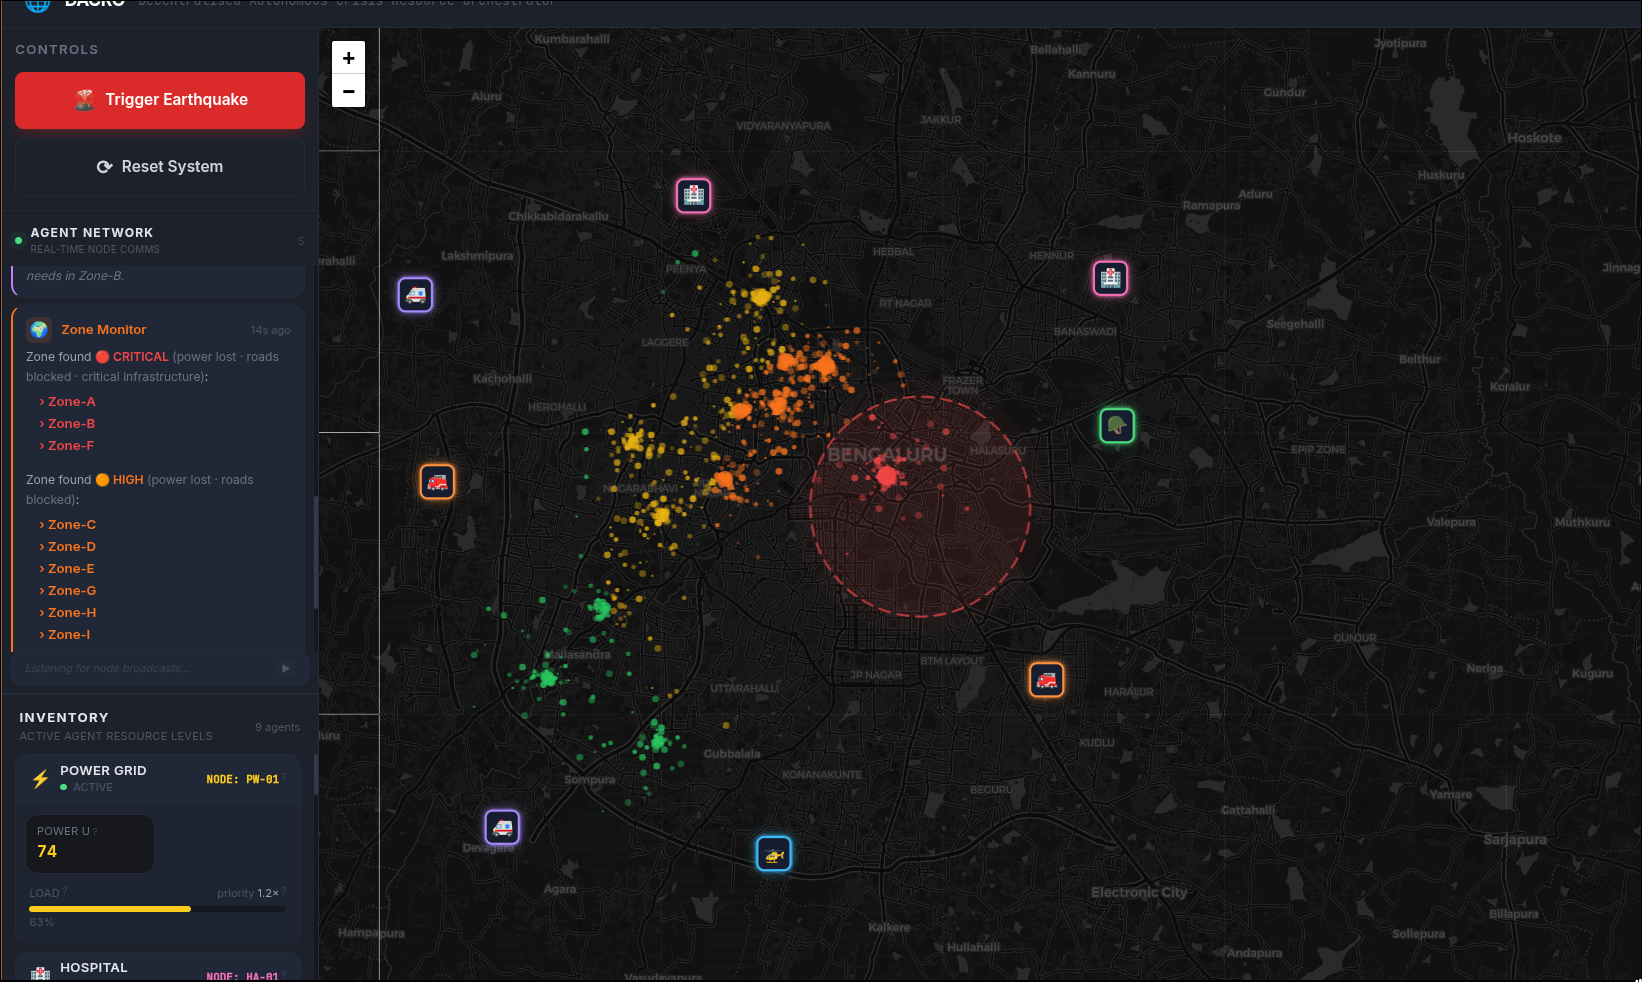
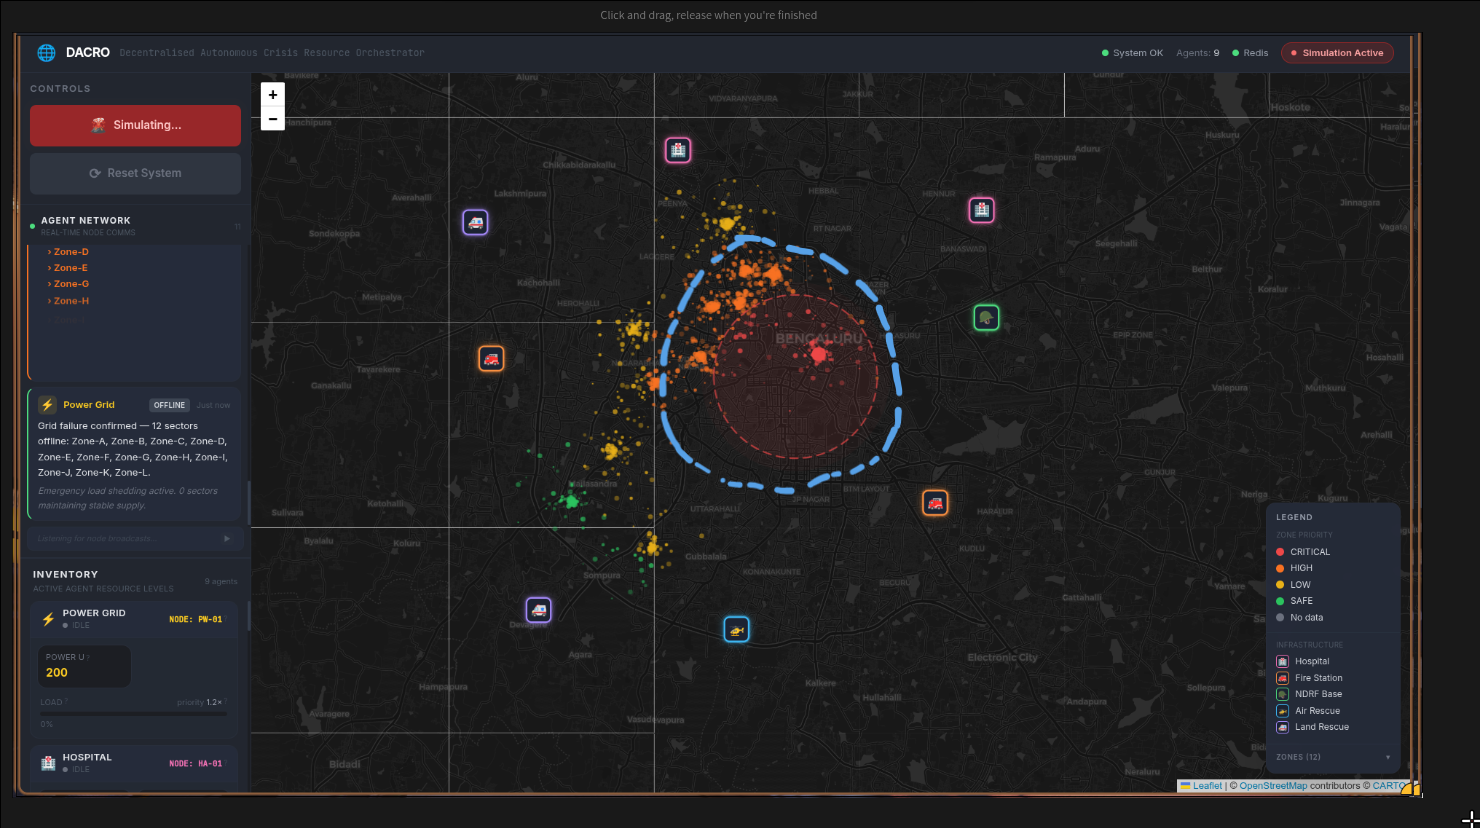
Added more details to map

diff --git a/resonet_frontend/src/components/Map/PowerOverlay.jsx b/resonet_frontend/src/components/Map/PowerOverlay.jsx
@@ -1,0 +1,117 @@
+/**
+ * PowerOverlay.jsx
+ * Renders small glowing blue "city light" dots around every zone that has power.
+ *
+ * Power-loss logic (frontend-driven, ignores backend's broad power_status signal):
+ *   • No epicenter active → all zones show dots (city fully lit)
+ *   • Epicenter active    → zones within 7 000 m lose dots (CRITICAL + HIGH impact ring)
+ *                           zones beyond 7 000 m keep dots (LOW + SAFE — grid stable)
+ *
+ * 7 000 m matches the HIGH/LOW boundary used by ZoneCircle and BuildingCluster,
+ * so color bands and power-off areas are always perfectly in sync.
+ *
+ * Dot positions are seeded by zone ID — stable across re-renders.
+ * Non-interactive (no mouse events).
+ */
+
+import { useMemo } from 'react';
+import { CircleMarker } from 'react-leaflet';
+
+/* ── PRNG ─────────────────────────────────────────────────────── */
+function strToSeed(str) {
+  let h = 2166136261 >>> 0;
+  for (let i = 0; i < str.length; i++) {
+    h ^= str.charCodeAt(i);
+    h = Math.imul(h, 16777619) >>> 0;
+  }
+  return h;
+}
+function makePRNG(seed) {
+  let s = seed >>> 0;
+  return () => {
+    s = (Math.imul(s, 1664525) + 1013904223) >>> 0;
+    return s / 4294967296;
+  };
+}
+
+/* ── Distance helper (same formula as ZoneCircle / BuildingCluster) ── */
+function metersApart(lat1, lon1, lat2, lon2) {
+  const R     = 6371000;
+  const dLat  = (lat2 - lat1) * (Math.PI / 180);
+  const mLat  = ((lat1 + lat2) / 2) * (Math.PI / 180);
+  const dLon  = (lon2 - lon1) * (Math.PI / 180);
+  return Math.sqrt(
+    (dLat * R) ** 2 + (dLon * R * Math.cos(mLat)) ** 2,
+  );
+}
+
+// Zones within this distance from the epicenter lose power
+// (matches the HIGH zone outer boundary → CRITICAL + HIGH ring goes dark)
+const POWER_LOSS_RADIUS_M = 7000;
+
+/* ── Dot layout ───────────────────────────────────────────────── */
+function buildPowerDots(lat, lon, density, zoneId) {
+  const rand  = makePRNG(strToSeed(zoneId + '\x00pw'));
+  const count = Math.round(density * 8 + 4);  // 5–10 dots
+  const dots  = [];
+
+  for (let i = 0; i < count; i++) {
+    const angle = rand() * Math.PI * 2;
+    const dist  = 0.0006 + rand() * 0.0045;
+    dots.push({
+      lat: lat + Math.sin(angle) * dist,
+      lon: lon + Math.cos(angle) * dist * 1.12,
+      r:   1.8 + rand() * 1.4,
+      op:  0.60 + rand() * 0.30,
+    });
+  }
+  return dots;
+}
+
+/* ── Single-zone dots ─────────────────────────────────────────── */
+function PowerZoneDots({ zone }) {
+  const { id, lat, lon, population_density = 0.5 } = zone;
+  const dots = useMemo(
+    () => buildPowerDots(lat, lon, population_density, id),
+    [id, lat, lon, population_density],
+  );
+
+  return (
+    <>
+      {dots.map((d, i) => (
+        <CircleMarker
+          key={`${id}-pw-${i}`}
+          center={[d.lat, d.lon]}
+          radius={d.r}
+          pathOptions={{
+            stroke:      false,
+            fillColor:   '#60a5fa',
+            fillOpacity: d.op,
+            interactive: false,
+          }}
+        />
+      ))}
+    </>
+  );
+}
+
+/* ── Overlay ──────────────────────────────────────────────────── */
+export default function PowerOverlay({ zones, epicenter }) {
+  const poweredZones = useMemo(() => {
+    if (!epicenter) return zones;   // no earthquake → all zones powered
+
+    return zones.filter((z) => {
+      const d = metersApart(z.lat, z.lon, epicenter.lat, epicenter.lon);
+      // Keep dots only for zones outside the power-loss radius
+      return d >= POWER_LOSS_RADIUS_M;
+    });
+  }, [zones, epicenter]);
+
+  return (
+    <>
+      {poweredZones.map((zone) => (
+        <PowerZoneDots key={zone.id} zone={zone} />
+      ))}
+    </>
+  );
+}

diff --git a/resonet_frontend/src/App.jsx b/resonet_frontend/src/App.jsx
@@ -58,6 +58,10 @@ export default function App() {
   const zoneBatchRef      = useRef([]);
   const zoneBatchTimerRef = useRef(null);
 
+  // Power batch buffer — collects power status changes, flushes a power_agent chat msg
+  const powerBatchRef      = useRef({ off: [], on: [] });
+  const powerBatchTimerRef = useRef(null);
+
   const { triggerEarthquake, resetSystem, isSimulating, lastEvent } = useSimulation();
 
   // Derive epicenter from the POST /simulate response — cleared to null on reset
@@ -92,6 +96,22 @@ export default function App() {
     pushMsg(makeMsg('zone_group', 'zone_monitor', '', null, { groups }));
   }, [pushMsg]);
 
+  /* ── Power batch flush — fires after all zone_update events settle ── */
+  const flushPowerBatch = useCallback(() => {
+    const { off, on } = powerBatchRef.current;
+    powerBatchRef.current = { off: [], on: [] };
+    if (off.length === 0) return;
+
+    const offList  = off.join(', ');
+    const onCount  = on.length;
+    pushMsg(makeMsg(
+      'award', 'power_agent',
+      `Grid failure confirmed — ${off.length} sector${off.length > 1 ? 's' : ''} offline: ${offList}.`,
+      `Emergency load shedding active. ${onCount} sector${onCount !== 1 ? 's' : ''} maintaining stable supply.`,
+      { badge: 'OFFLINE' },
+    ));
+  }, [pushMsg]);
+
   /* ── WebSocket handlers ───────────────────────────────────────── */
   const onZoneUpdate = useCallback((payload) => {
     const { zone_id, lat, lon, classification, severity_score,
@@ -108,7 +128,17 @@ export default function App() {
         : z
     ));
 
-    // Buffer for grouped chat message (only notable zones)
+    // Track power status changes for the power_agent chat message
+    if (power_status === false && !powerBatchRef.current.off.includes(zone_id)) {
+      powerBatchRef.current.off.push(zone_id);
+    } else if (power_status === true && !powerBatchRef.current.on.includes(zone_id)) {
+      powerBatchRef.current.on.push(zone_id);
+    }
+    clearTimeout(powerBatchTimerRef.current);
+    // Flush slightly after zone batch (900 ms) so power msg appears after zone alert
+    powerBatchTimerRef.current = setTimeout(flushPowerBatch, 900);
+
+    // Buffer for grouped zone classification chat message
     if (['CRITICAL', 'HIGH', 'LOW'].includes(classification)) {
       const existingIdx = zoneBatchRef.current.findIndex((z) => z.zone_id === zone_id);
       const updateData = { zone_id, classification, power_status, road_blocked, has_critical_infra };
@@ -120,7 +150,7 @@ export default function App() {
       clearTimeout(zoneBatchTimerRef.current);
       zoneBatchTimerRef.current = setTimeout(flushZoneBatch, 700);
     }
-  }, [flushZoneBatch]);
+  }, [flushZoneBatch, flushPowerBatch]);
 
   const onNegotiation = useCallback((payload) => {
     const { decision_id, resource_type, requester, winner,
@@ -222,12 +252,25 @@ export default function App() {
     bootstrap();
   }, []);
 
+  /* ── Trigger — push immediate power_agent alert, then fire simulation ── */
+  const handleTrigger = useCallback(async () => {
+    pushMsg(makeMsg(
+      'request', 'power_agent',
+      'Seismic activity detected. Initiating emergency power grid monitoring across all sectors.',
+      'Scanning grid integrity — standby for sector status report.',
+    ));
+    await triggerEarthquake();
+  }, [triggerEarthquake, pushMsg]);
+
   /* ── Reset ────────────────────────────────────────────────────── */
   const handleReset = useCallback(() => {
     resetSystem(() => {
       // Clear zone batch
       clearTimeout(zoneBatchTimerRef.current);
       zoneBatchRef.current = [];
+      // Clear power batch
+      clearTimeout(powerBatchTimerRef.current);
+      powerBatchRef.current = { off: [], on: [] };
       // Clear dedup sets
       seenDecisions.current.clear();
       decisionsRef.current.clear();
@@ -284,7 +327,7 @@ export default function App() {
         {/* Sidebar */}
         <aside className="w-72 shrink-0 bg-panel-surface border-r border-panel-border flex flex-col overflow-hidden">
           <div className="shrink-0 p-3 border-b border-panel-border">
-            <Controls isSimulating={isSimulating} onTrigger={triggerEarthquake} onReset={handleReset} />
+            <Controls isSimulating={isSimulating} onTrigger={handleTrigger} onReset={handleReset} />
           </div>
           <div className="flex-[3] min-h-0 flex flex-col overflow-hidden">
             <AgentChat messages={messages} />

diff --git a/resonet_frontend/src/components/Map/ZoneCircle.jsx b/resonet_frontend/src/components/Map/ZoneCircle.jsx
@@ -74,39 +74,40 @@ export default function ZoneCircle({ zone, epicenter, isHighlighted = false, isD
   const effectiveClass = epicenter ? quakeClass(lat, lon, epicenter) : classification;
   const color          = classColour(effectiveClass);
   const baseRadius     = Math.max(5, Math.min(9, (population_density ?? 0.5) * 10));
-  const radius         = isHighlighted ? baseRadius + 4 : baseRadius;
+  const radius         = baseRadius;   // glow ring handles size on highlight
   const isCritical     = effectiveClass === 'CRITICAL';
 
-  // Highlight: brighter, heavier ring + glow effect via weight + opacity
-  // Dimmed: subtle fade so the highlighted zone pops
+  // Highlight: no fill on main circle — just a clean stroke ring outline.
+  // The outer dashed glow ring carries all the visual weight.
+  // Dimmed: subtle fade so the highlighted zone pops.
   const fillOpacity = isDimmed
-    ? 0.25
+    ? 0.20
     : isHighlighted
-      ? 1
+      ? 0           // hollow — no fill when highlighted
       : isCritical ? 0.92 : 0.78;
 
   const strokeOpacity = isDimmed
-    ? 0.2
+    ? 0.15
     : isHighlighted
-      ? 1
+      ? 0.9
       : isCritical ? 1 : 0.6;
 
-  const strokeWeight = isHighlighted ? 3 : isCritical ? 1.5 : 0.5;
+  const strokeWeight = isHighlighted ? 2 : isCritical ? 1.5 : 0.5;
 
   return (
     <>
-      {/* Subtle glow ring rendered beneath the main circle on highlight */}
+      {/* Outer glow ring — the main highlight indicator */}
       {isHighlighted && (
         <CircleMarker
           center={[lat, lon]}
-          radius={radius + 6}
+          radius={baseRadius + 8}
           pathOptions={{
             color:       color,
             fillColor:   color,
-            fillOpacity: 0.12,
-            weight:      1,
-            opacity:     0.5,
-            dashArray:   '3 3',
+            fillOpacity: 0.10,
+            weight:      1.5,
+            opacity:     0.6,
+            dashArray:   '4 4',
           }}
           interactive={false}
         />

diff --git a/resonet_frontend/src/components/Map/CityMap.jsx b/resonet_frontend/src/components/Map/CityMap.jsx
@@ -3,10 +3,10 @@
  * Main Leaflet map wrapper.
  * Render order (bottom → top):
  *   1. Earthquake halo  — large dashed circle at epicenter
- *   2. Building clusters — density dots per zone
- *   3. Zone circles     — interactive zone markers (subtly highlighted on legend hover)
- *   4. Infra markers    — hospital / fire / rescue icons
- *   5. MapLegend        — interactive zone legend with hover highlight
+ *   2. Building clusters — density dots per zone (colored by distance)
+ *   3. Power overlay    — blue city-light dots, hidden on power-off zones
+ *   4. Zone circles     — interactive zone markers
+ *   5. Infra markers    — hospital / fire / rescue icons
  */
 
 import { useState }              from 'react';
@@ -14,6 +14,7 @@ import { MapContainer, TileLayer } from 'react-leaflet';
 import 'leaflet/dist/leaflet.css';
 import ZoneCircle      from './ZoneCircle';
 import BuildingCluster from './BuildingCluster';
+import PowerOverlay    from './PowerOverlay';
 import InfraMarkers    from './InfraMarker';
 import EarthquakeHalo  from './EarthquakeHalo';
 import MapLegend       from './MapLegend';
@@ -45,6 +46,9 @@ export default function CityMap({ zones, epicenter }) {
         {zones.map((zone) => (
           <BuildingCluster key={`cluster-${zone.id}`} zone={zone} epicenter={epicenter} />
         ))}
+
+        {/* Power overlay — blue dots for zones outside the 7 km impact radius */}
+        <PowerOverlay zones={zones} epicenter={epicenter} />
 
         {/* Zone circle markers — subtle highlight when hoveredZoneId matches */}
         {zones.map((zone) => (

diff --git a/resonet_frontend/src/components/Map/MapLegend.jsx b/resonet_frontend/src/components/Map/MapLegend.jsx
@@ -159,6 +159,16 @@ export default function MapLegend({ zones = [], onHoverZone }) {
             <span className="text-[11px] text-gray-300">{label}</span>
           </div>
         ))}
+
+        {/* Power grid indicator */}
+        <div className="flex items-center gap-2 mt-2 pt-2" style={{ borderTop: '1px solid #1e293b' }}>
+          <LegendDot color="#60a5fa" />
+          <span className="text-[11px] text-gray-300">Power grid ON</span>
+        </div>
+        <div className="flex items-center gap-2 mb-0.5">
+          <div className="w-2.5 h-2.5 rounded-full shrink-0 border border-gray-600" style={{ background: 'transparent' }} />
+          <span className="text-[11px] text-gray-500">Power grid OFF</span>
+        </div>
       </div>
 
       {/* ── Infrastructure section ─────────────────────────────────── */}